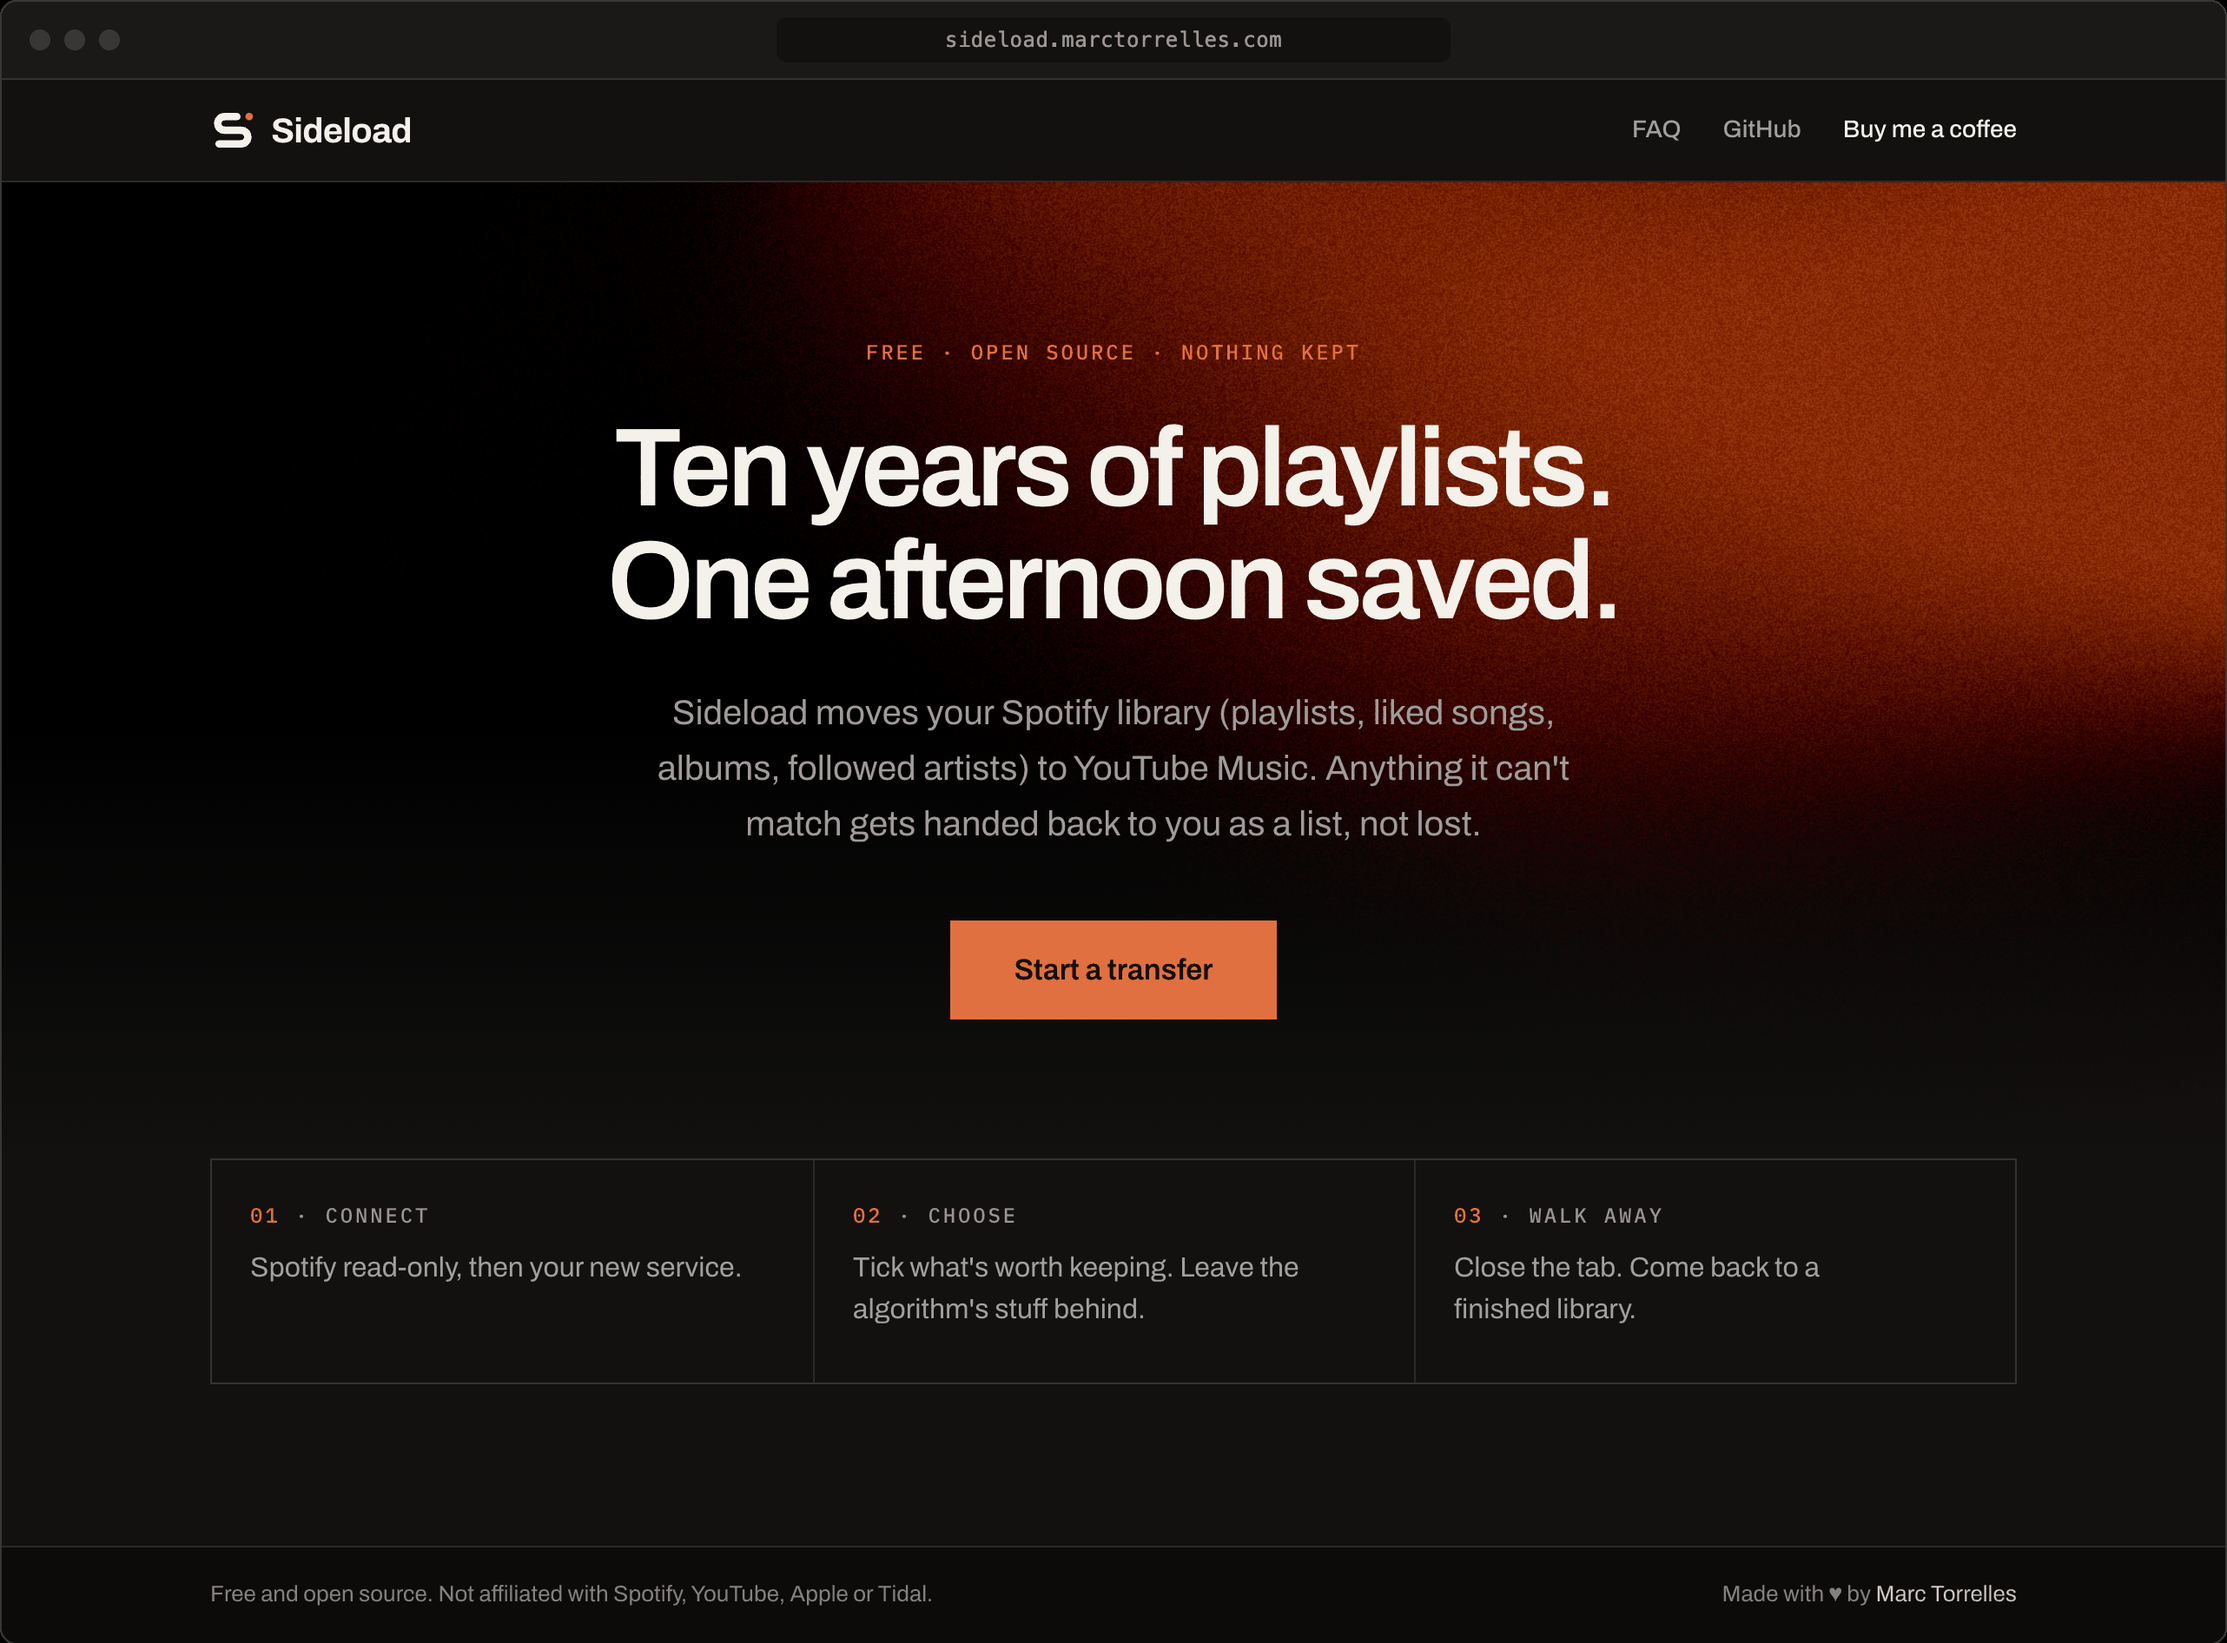
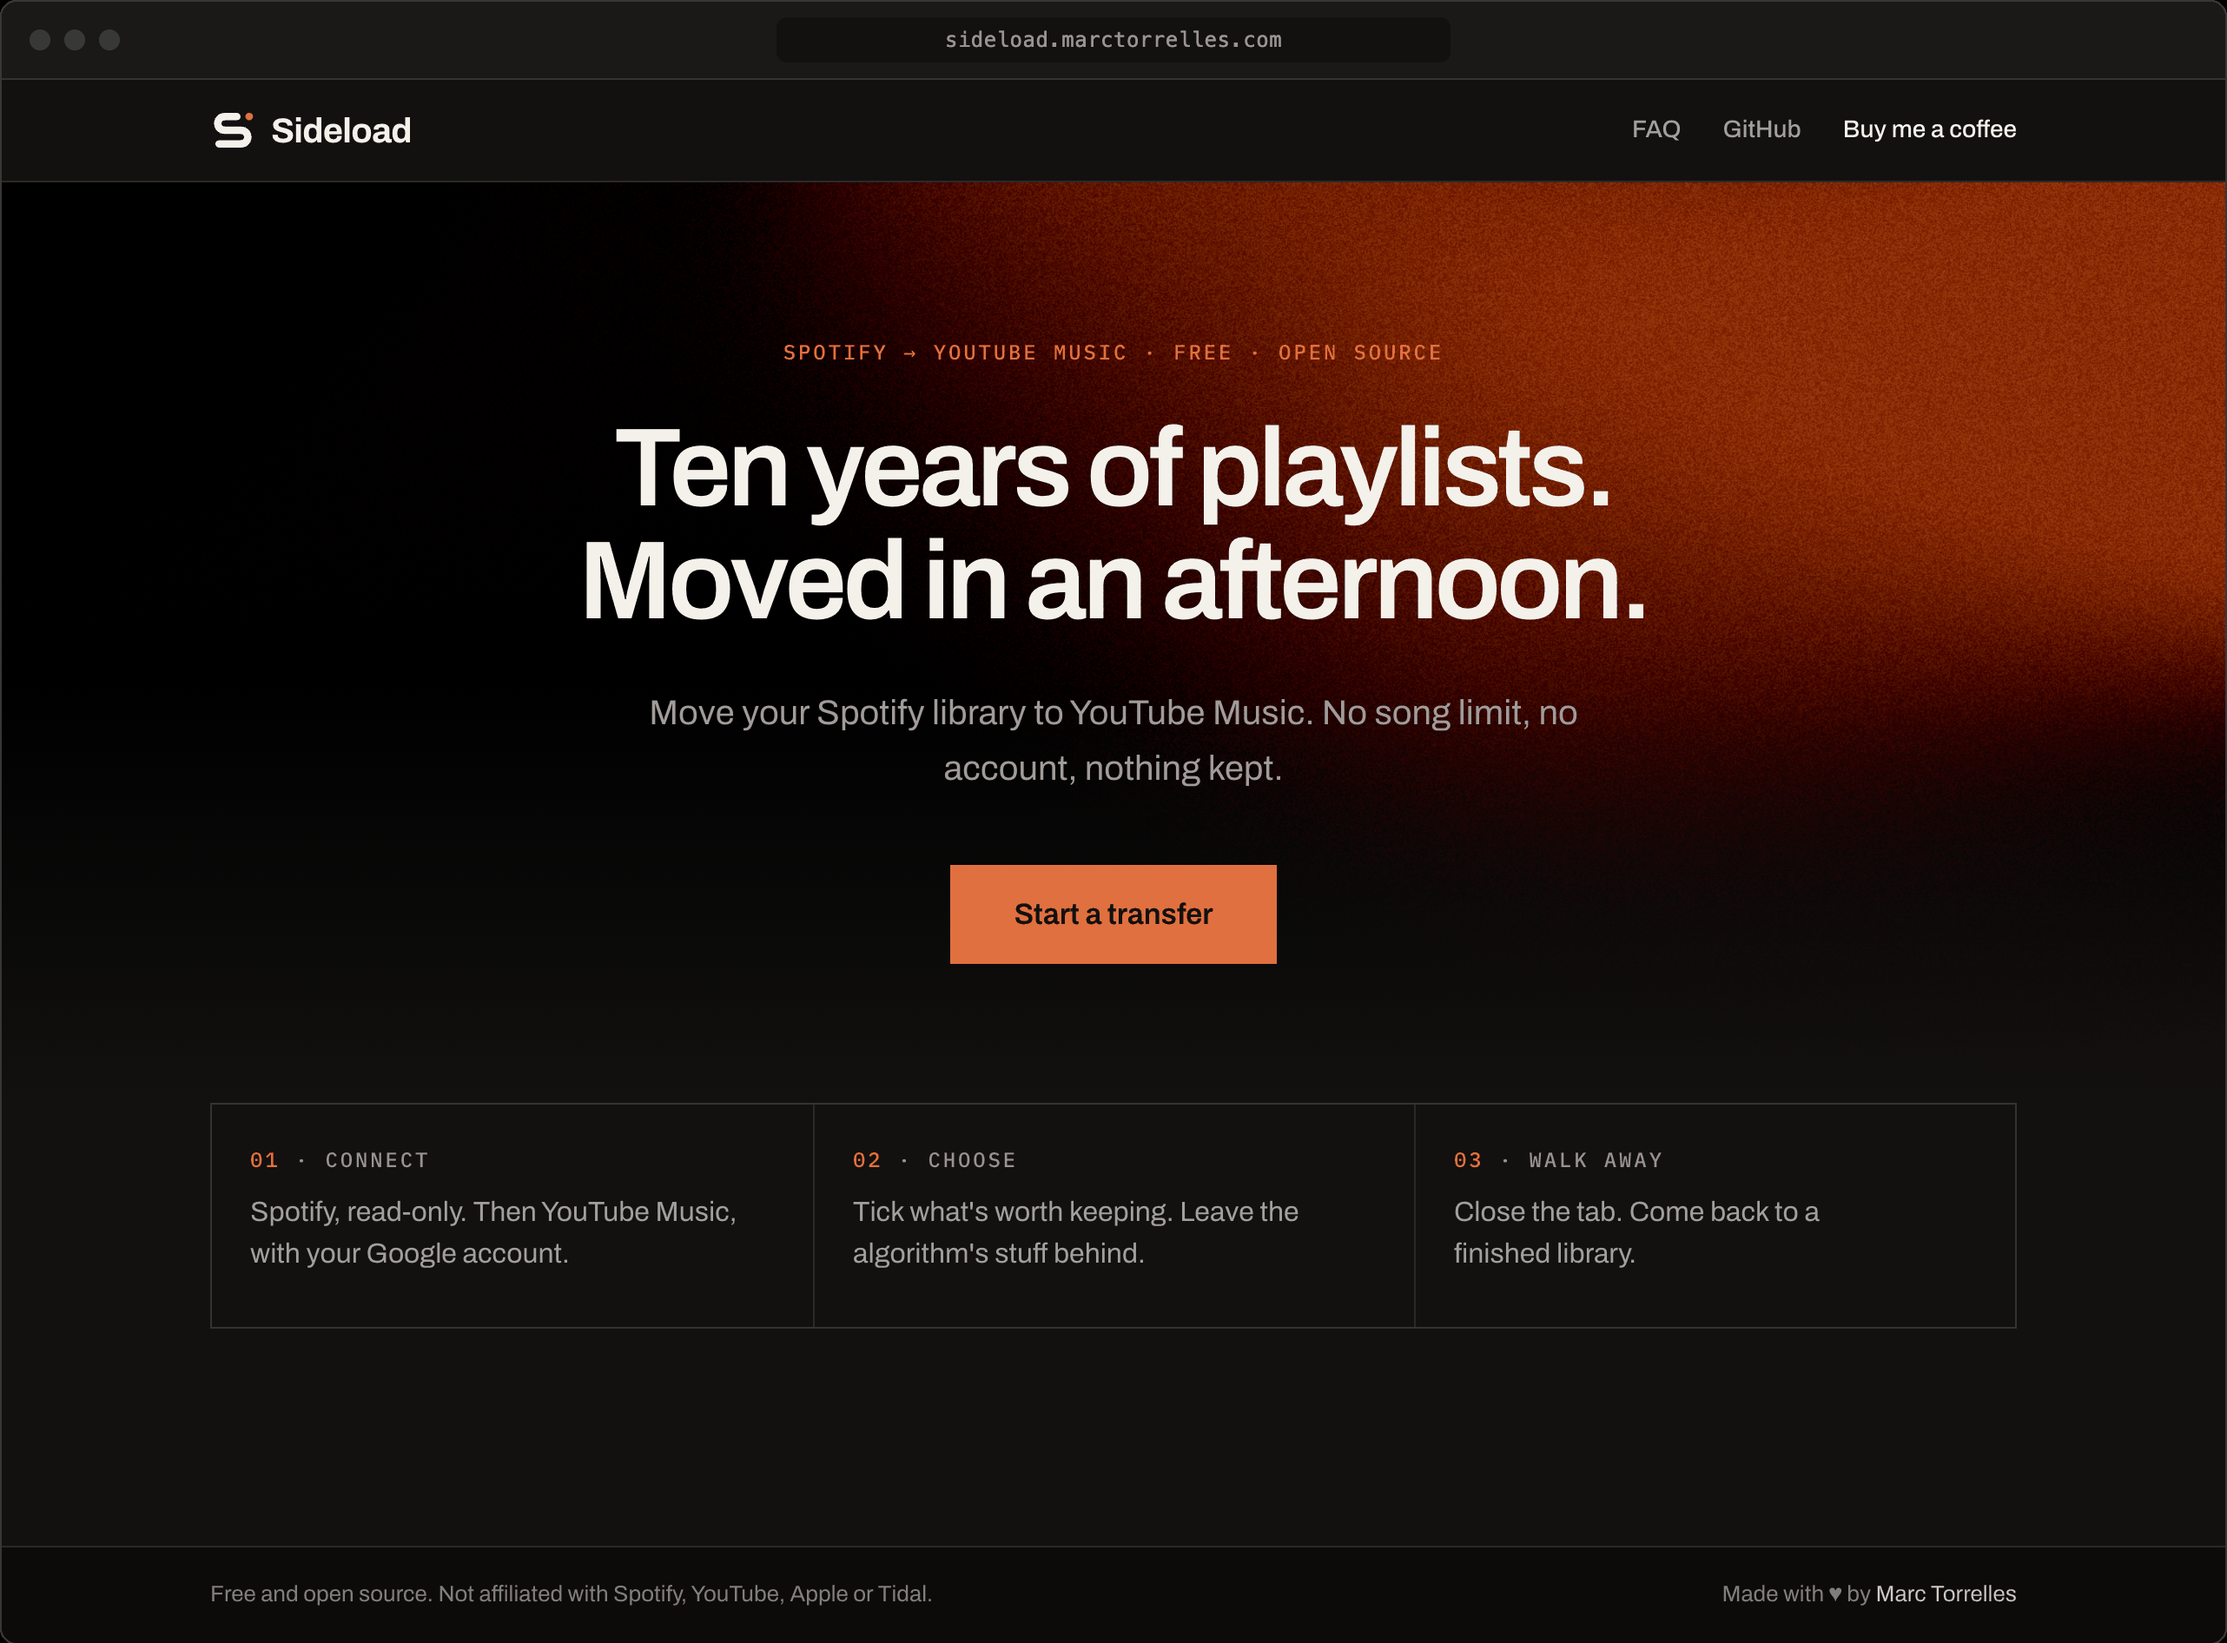
feat(web): landing copy states the route and the promises
Eyebrow carries Spotify to YouTube Music, the headline drops the ambiguous "saved", the lede names what competitors cannot claim (no song limit, no account, nothing kept), steps 01 and 03 rewritten, title and description use the search phrase. OG card re-rendered with the same copy; README landing shot refreshed.

diff --git a/web/scripts/og.html b/web/scripts/og.html
@@ -12,8 +12,8 @@ h1{font:600 92px/1.02 Archivo;letter-spacing:-.038em;margin:0}
 .u{font:500 19px/1 Plex,monospace;color:rgba(255,255,255,.52);letter-spacing:.06em}
 </style><div class="c"><canvas id="bg" width="1200" height="630"></canvas><div class="fade"></div>
 <div class="w t"><svg viewBox="7.5 6.5 33 33"><path d="M27 13 H18 a5 5 0 0 0 0 10 H30 a5 5 0 0 1 0 10 H14" fill="none" stroke="#f4f1eb" stroke-width="5.5" stroke-linecap="round"/><circle cx="36" cy="13" r="2.75" fill="#e0703f"/></svg>Sideload</div>
-<div class="t"><div class="e">Free · open source · nothing kept</div><h1>Ten years of playlists.<br>One afternoon saved.</h1></div>
-<div class="u t">sideload.marctorrelles.com · Spotify → YouTube Music</div></div>
+<div class="t"><div class="e">Spotify → YouTube Music · free · open source</div><h1>Ten years of playlists.<br>Moved in an afternoon.</h1></div>
+<div class="u t">sideload.marctorrelles.com · no account · nothing kept</div></div>
 <script>
 const VERT = `#version 300 es
 in vec2 position;
